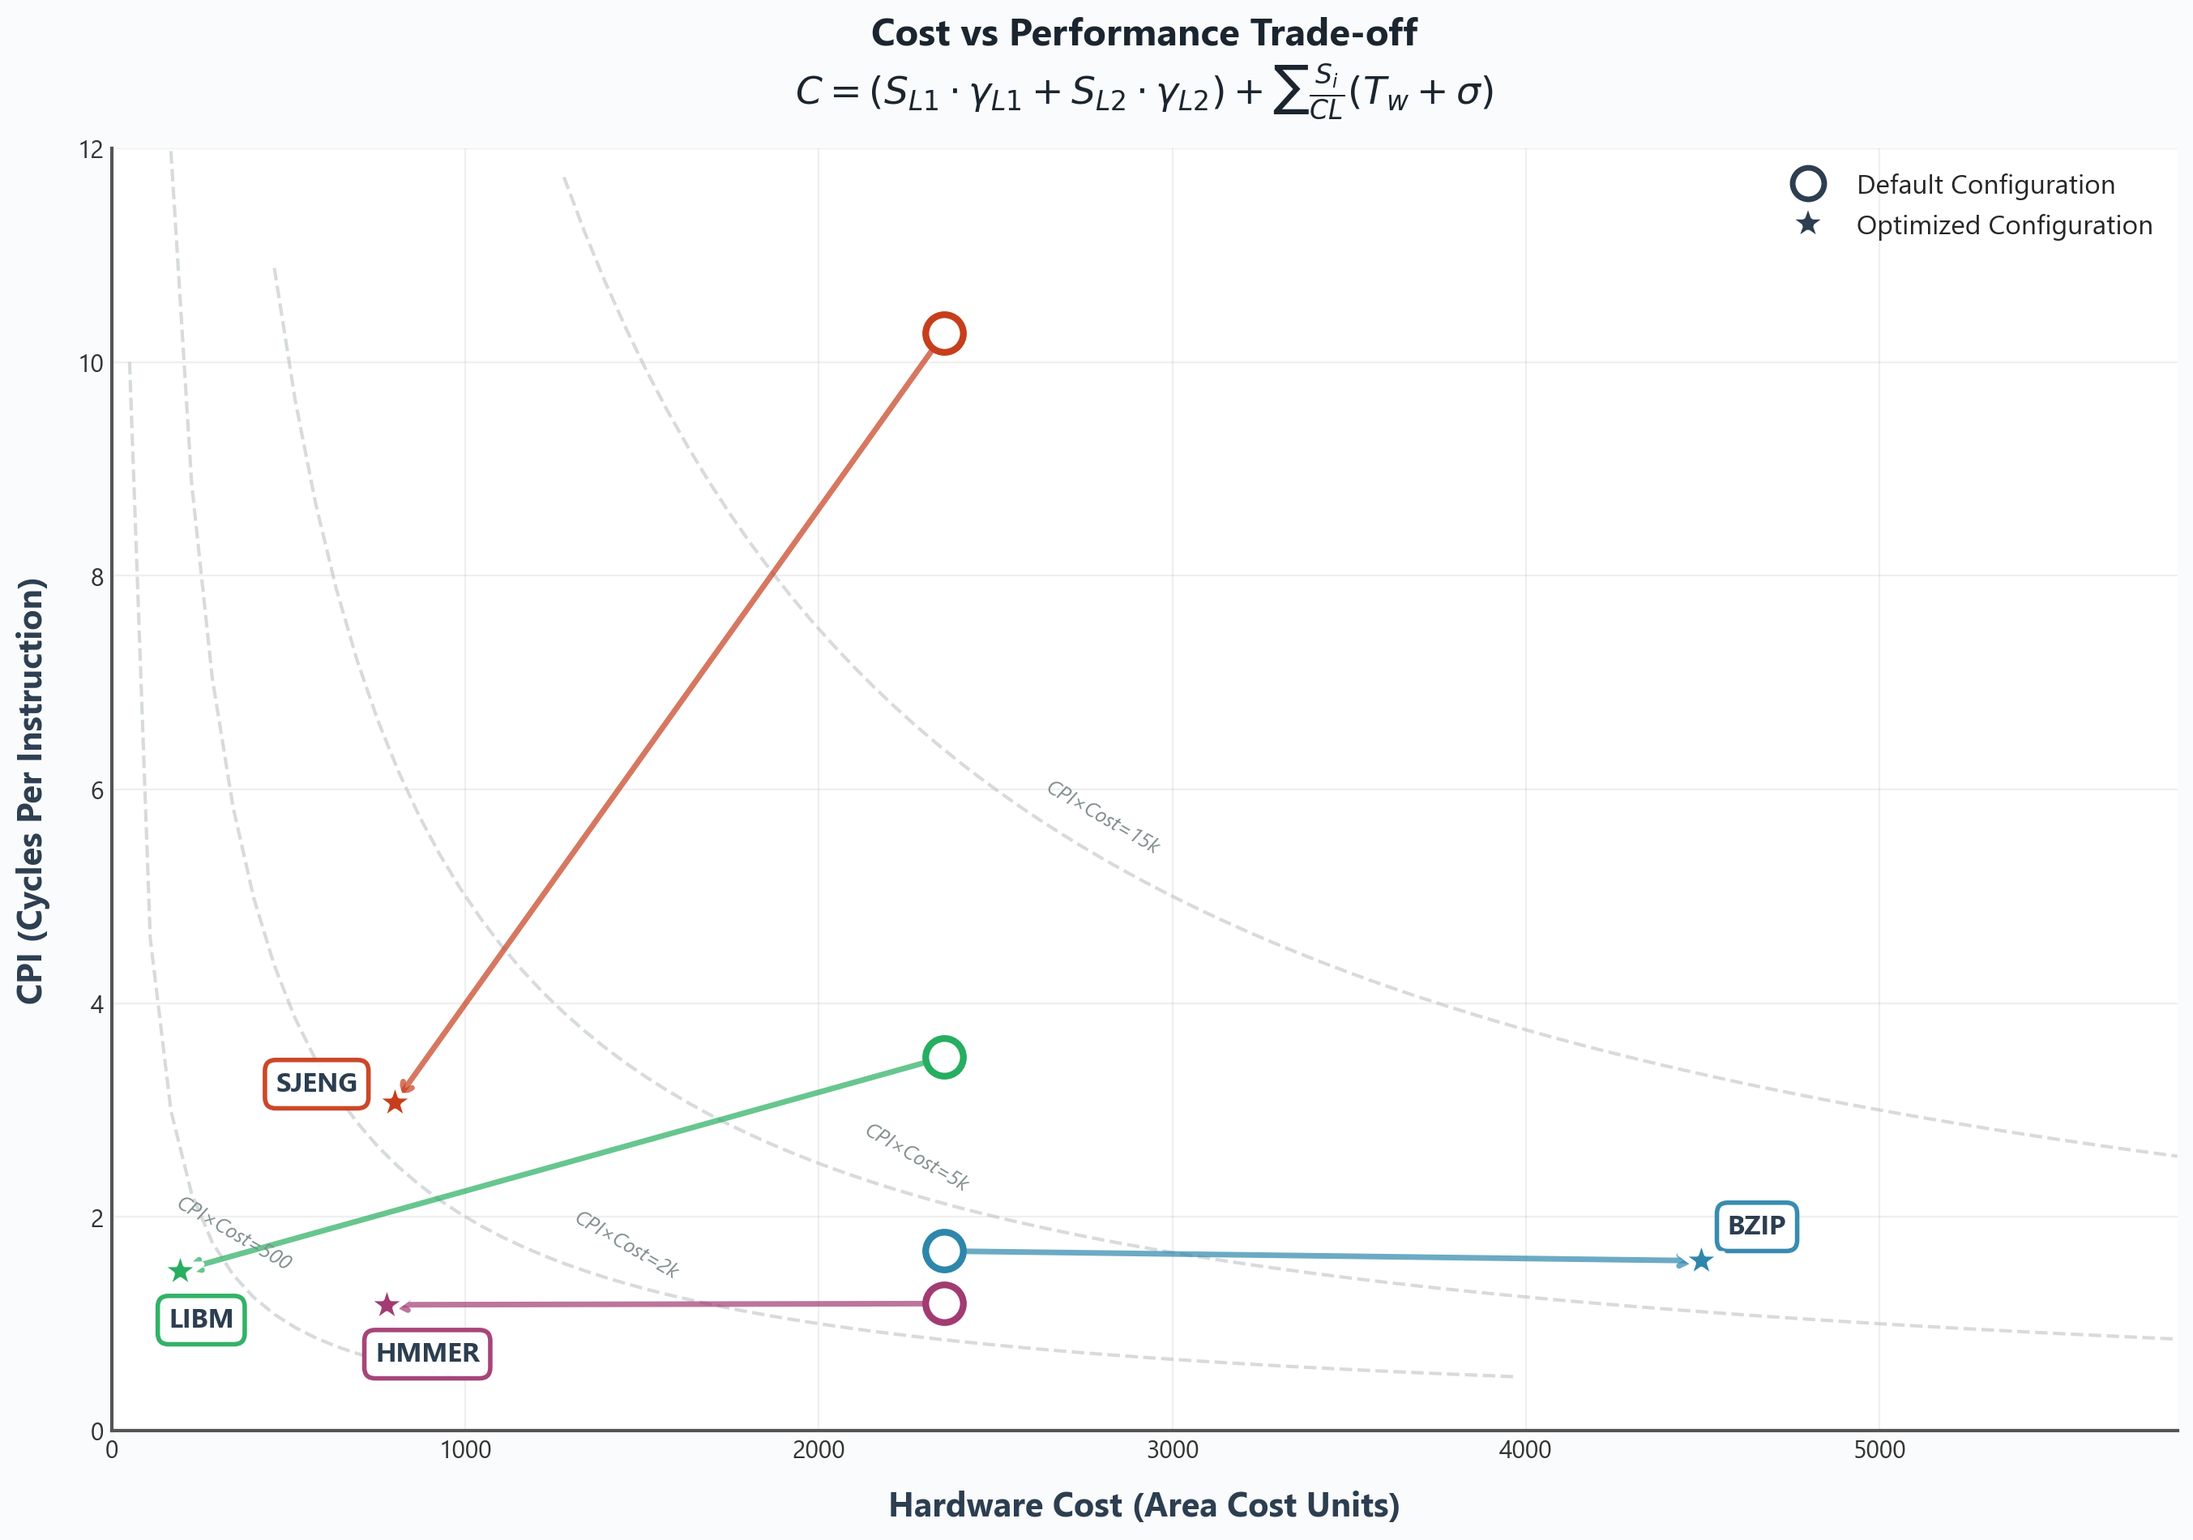
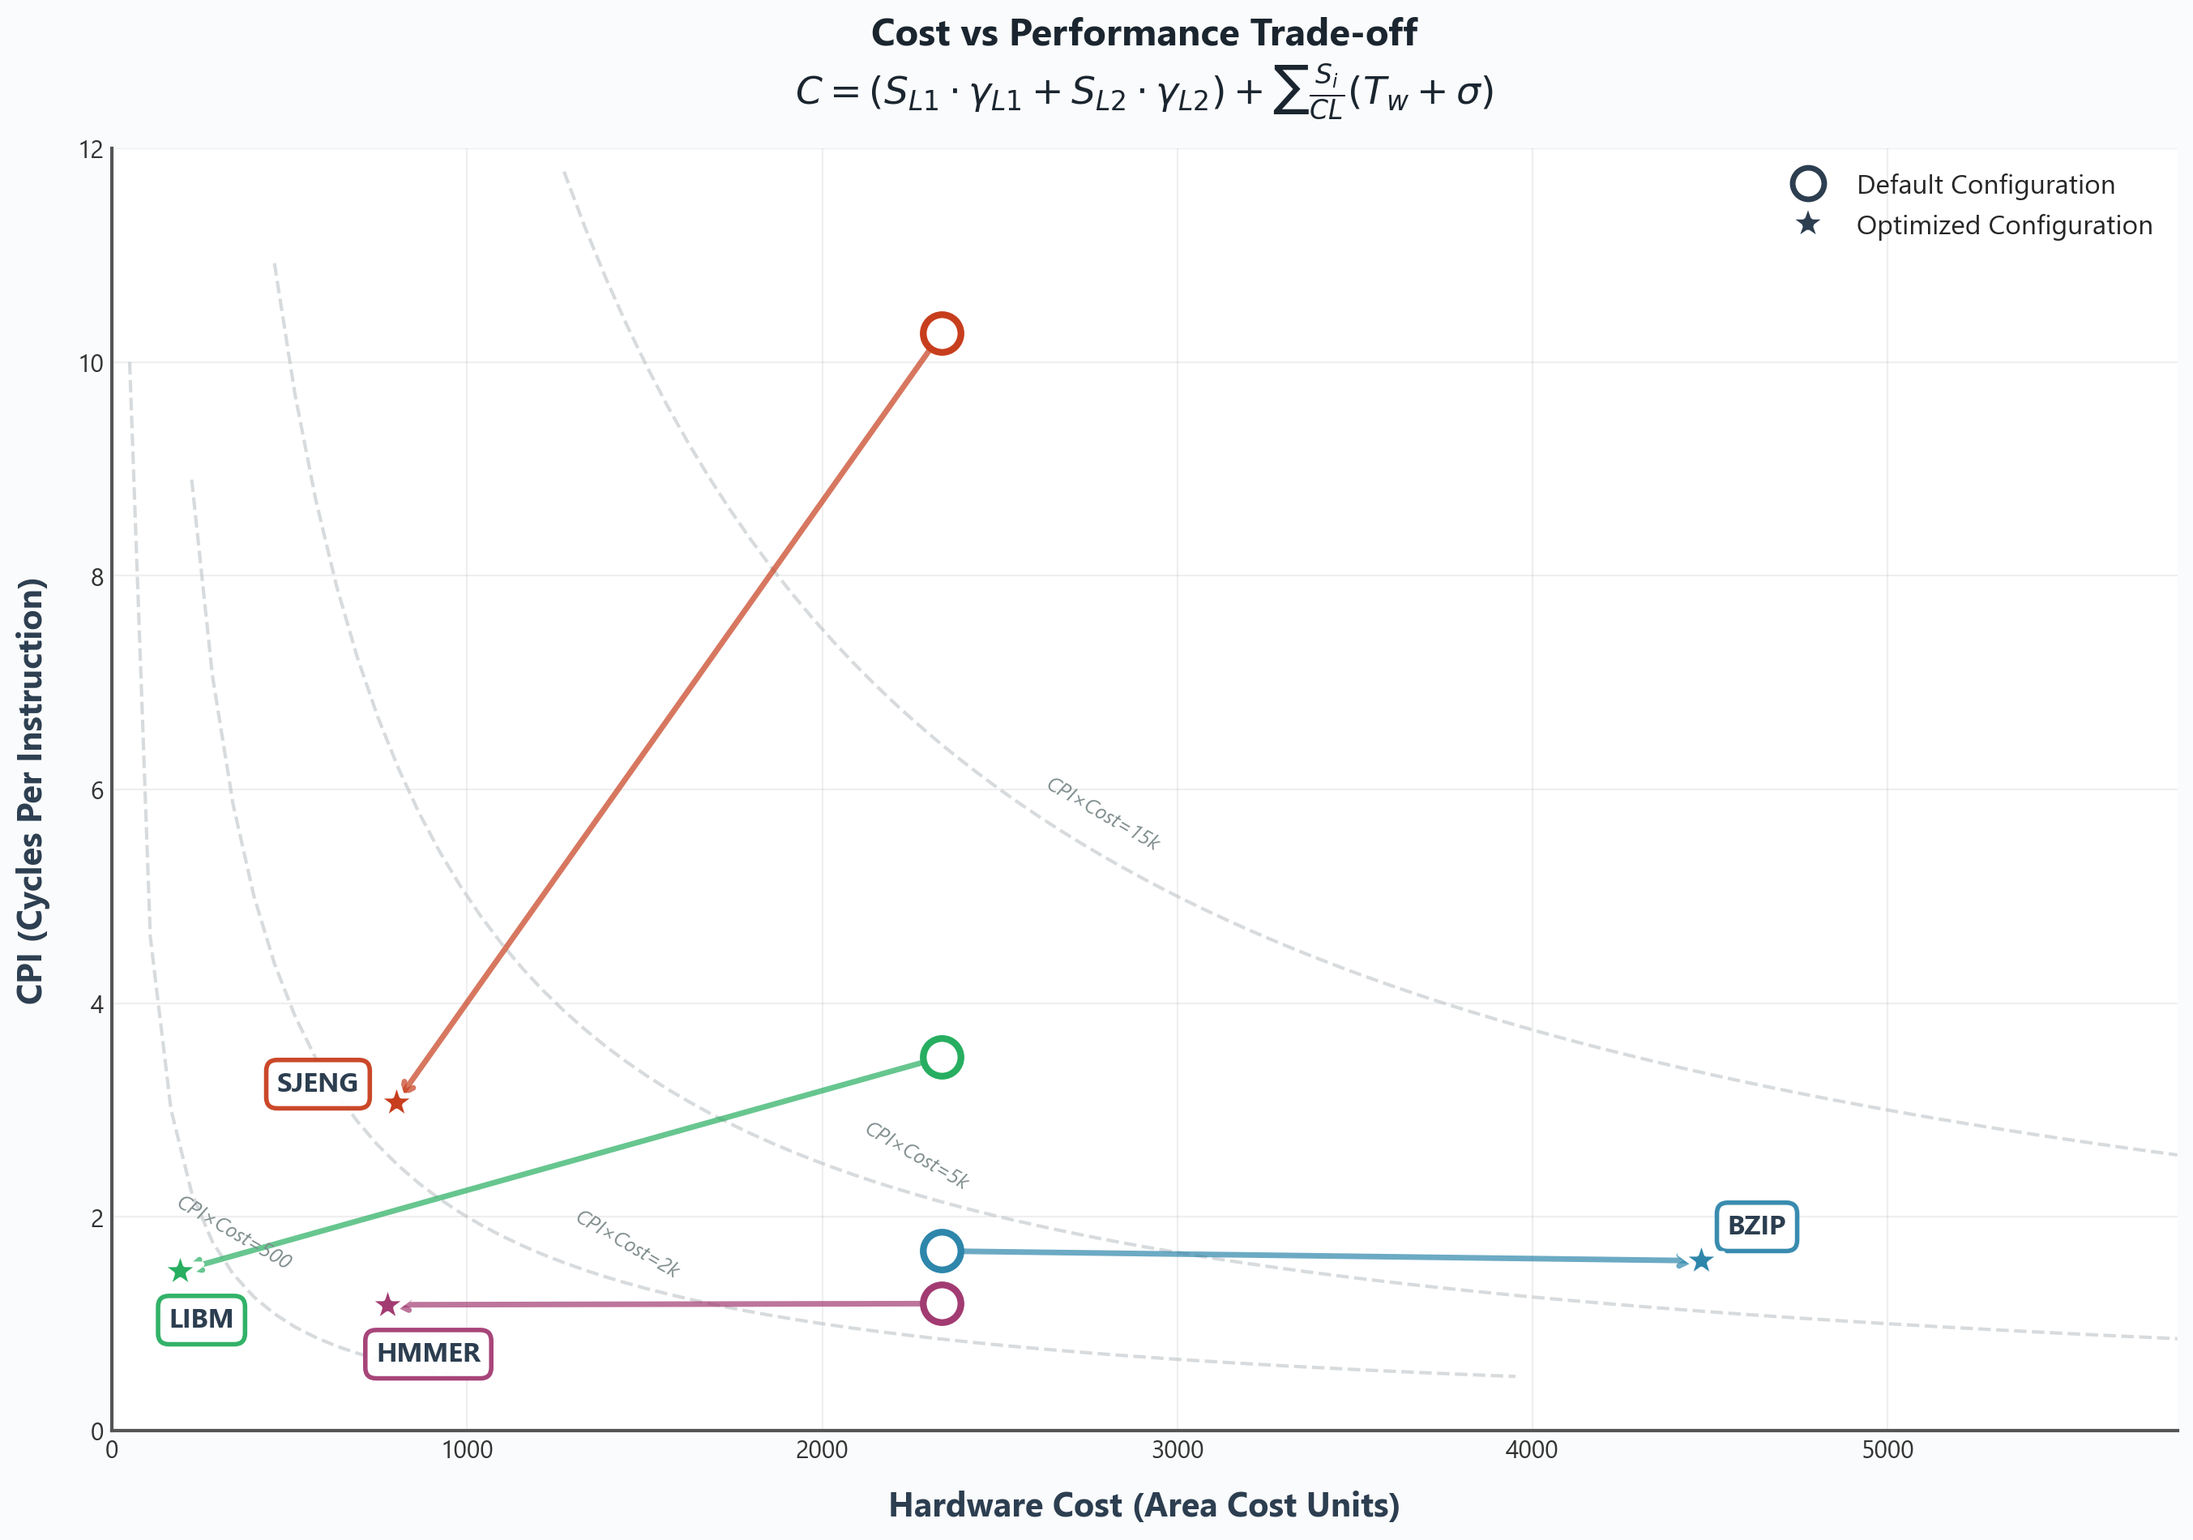
docs: improve "Part 3" of README report

diff --git a/bonus-assigment/scripts/plot_3.py b/bonus-assigment/scripts/plot_3.py
@@ -75,17 +75,18 @@ OUTPUT_DIR.mkdir(parents=True, exist_ok=True)
 # =============================================================================
 # C_total = C_data + C_tag + C_logic
 #
-# C_data = S_L1 × γ_L1 + S_L2 × γ_L2
-# C_tag  = Σ (S_i / CL) × (T_w + σ) × γ_i
+# C_data = S_L1 × γ_L1 + S_L2 × γ_L2           (all sizes in KB)
+# C_tag  = Σ (S_i / CL) × (T_w + σ) / 8 × γ_i  (÷8 converts tag bits → bytes;
+#                                                  ×1024 from KB/B and ÷1024 cancel)
 # C_logic = C_tag × δ × W
 #
-# Combined: C = (S_L1 × γ_L1 + S_L2 × γ_L2) + Σ (S_i/CL × (T_w + σ) × γ_i × (1 + δ × W_i))
+# Combined: C = (S_L1 × γ_L1 + S_L2 × γ_L2) + Σ (S_i/CL × (T_w + σ)/8 × γ_i × (1 + δ × W_i))
 
 COST_PARAMS = {
     'GAMMA_L1': 2.0,          # L1 cell density factor (8T SRAM ~2× larger than 6T)
     'GAMMA_L2': 1.0,          # L2 baseline (6T SRAM)
     'ADDR_WIDTH': 32,         # Address width in bits
-    'DELTA': 0.05,            # Logic overhead per way (~5% per way on tag+logic)
+    'DELTA': 0.02,            # Logic overhead per way (~2% comparator/mux per way)
 }
 
 # =============================================================================
@@ -206,15 +207,19 @@ def calculate_cost(config: Dict) -> float:
     
     Formula: C_total = C_data + C_tag_and_logic
     
-    C_data = S_L1 × γ_L1 + S_L2 × γ_L2
-    C_tag_and_logic = Σ (S_i / CL) × (T_w + σ) × γ_i × (1 + δ × W_i)
+    C_data = S_L1 × γ_L1 + S_L2 × γ_L2              (sizes in KB)
+    C_tag_and_logic = Σ (S_i/CL) × (T_w + σ)/8 × γ_i × (1 + δ × W_i)
+    
+    Note: S_i is in KB and CL in bytes, so S_i/CL carries an implicit ×1024.
+    The bits→KB conversion needs ÷(8×1024), but the ×1024 and ÷1024 cancel,
+    leaving only ÷8 (bits→bytes).
     
     Where:
     - γ_L1 = 2.0: L1 cell density factor (8T SRAM ~2× larger than 6T)
     - γ_L2 = 1.0: L2 baseline (6T SRAM)
     - T_w: Tag width in bits
     - σ: Status bits (valid + dirty + LRU)
-    - δ = 0.05: Logic overhead per way
+    - δ = 0.02: Logic overhead per way (~2% comparator/mux per way)
     """
     p = COST_PARAMS
     
@@ -228,27 +233,20 @@ def calculate_cost(config: Dict) -> float:
     # Data Array Cost: C_data = S_L1 × γ_L1 + S_L2 × γ_L2
     c_data = (l1_total_kb * p['GAMMA_L1']) + (l2_kb * p['GAMMA_L2'])
     
-    # Tag & Logic Overhead for L1i
+    # Tag & Logic Overhead for L1i: (S_KB / CL) × (T_w + σ) / 8 × γ × (1 + δ × W)
     l1i_tag_w = calculate_tag_width(l1i_kb, cl, config['L1i_assoc'])
     l1i_status = calculate_status_bits(config['L1i_assoc'])
-    l1i_num_lines = (l1i_kb * 1024) / cl
-    l1i_overhead = l1i_num_lines * (l1i_tag_w + l1i_status) * p['GAMMA_L1'] * (1 + p['DELTA'] * config['L1i_assoc'])
-    # Scale down to KB-equivalent units (divide by 8*1024 to convert bits to KB)
-    l1i_overhead = l1i_overhead / (8 * 1024)
+    l1i_overhead = (l1i_kb / cl) * (l1i_tag_w + l1i_status) / 8 * p['GAMMA_L1'] * (1 + p['DELTA'] * config['L1i_assoc'])
     
-    # Tag & Logic Overhead for L1d
+    # Tag & Logic Overhead for L1d: (S_KB / CL) × (T_w + σ) / 8 × γ × (1 + δ × W)
     l1d_tag_w = calculate_tag_width(l1d_kb, cl, config['L1d_assoc'])
     l1d_status = calculate_status_bits(config['L1d_assoc'])
-    l1d_num_lines = (l1d_kb * 1024) / cl
-    l1d_overhead = l1d_num_lines * (l1d_tag_w + l1d_status) * p['GAMMA_L1'] * (1 + p['DELTA'] * config['L1d_assoc'])
-    l1d_overhead = l1d_overhead / (8 * 1024)
+    l1d_overhead = (l1d_kb / cl) * (l1d_tag_w + l1d_status) / 8 * p['GAMMA_L1'] * (1 + p['DELTA'] * config['L1d_assoc'])
     
-    # Tag & Logic Overhead for L2
+    # Tag & Logic Overhead for L2: (S_KB / CL) × (T_w + σ) / 8 × γ × (1 + δ × W)
     l2_tag_w = calculate_tag_width(l2_kb, cl, config['L2_assoc'])
     l2_status = calculate_status_bits(config['L2_assoc'])
-    l2_num_lines = (l2_kb * 1024) / cl
-    l2_overhead = l2_num_lines * (l2_tag_w + l2_status) * p['GAMMA_L2'] * (1 + p['DELTA'] * config['L2_assoc'])
-    l2_overhead = l2_overhead / (8 * 1024)
+    l2_overhead = (l2_kb / cl) * (l2_tag_w + l2_status) / 8 * p['GAMMA_L2'] * (1 + p['DELTA'] * config['L2_assoc'])
     
     # Total tag/logic overhead
     c_tag_logic = l1i_overhead + l1d_overhead + l2_overhead
@@ -282,8 +280,7 @@ def calculate_cost_breakdown(config: Dict) -> Dict[str, float]:
                               (l2_kb, config['L2_assoc'], p['GAMMA_L2'])]:
         tw = calculate_tag_width(sz, cl, assoc)
         st = calculate_status_bits(assoc)
-        nlines = (sz * 1024) / cl
-        tag_overhead += nlines * (tw + st) * gamma * (1 + p['DELTA'] * assoc) / (8 * 1024)
+        tag_overhead += (sz / cl) * (tw + st) / 8 * gamma * (1 + p['DELTA'] * assoc)
     
     total = c_data + tag_overhead
     

diff --git a/bonus-assigment/README.md b/bonus-assigment/README.md
@@ -526,12 +526,12 @@ A cache chip consists of three main components, each with distinct cost characte
 │                    CACHE CHIP                       │
 ├─────────────────────────────────────────────────────┤
 │  ┌───────────────────────────────────────────────┐  │
-│  │             DATA ARRAY (90-95%)               │  │ ← Fixed by capacity
+│  │             DATA ARRAY (95%)                  │  │ ← Fixed by capacity
 │  │         Stores actual cache data              │  │    NOT affected by
 │  │         Size = Capacity in bits               │  │    associativity
 │  └───────────────────────────────────────────────┘  │
 │  ┌─────────────────────┐ ┌─────────────────────┐    │
-│  │   TAG ARRAY (3-5%)  │ │  LOGIC (2-5%)       │    │ ← Scales with:
+│  │   TAG ARRAY (4%)    │ │  LOGIC (1%)         │    │ ← Scales with:
 │  │   Stores addresses  │ │  Comparators, MUX   │    │    - Associativity
 │  │   Size ∝ 1/LineSize │ │  Decoders, LRU      │    │    - 1/LineSize
 │  └─────────────────────┘ └─────────────────────┘    │
@@ -577,39 +577,40 @@ Each cache line needs a **tag** to identify which memory address it holds.
 **Tag Calculation:**
 
 For a cache with:
-- Capacity $S$ (in bytes)
-- Line size $CL$ (in bytes)
+- Capacity $S$ (in KB)
+- Line/Block size $CL$ (in bytes)
 - Associativity $W$ (ways)
 - Address width $A_w$ (typically 32 or 48 bits)
 
-Number of lines: $N = \frac{S}{CL}$
+Number of blocks: $N = \frac{S}{CL}$
 
 Number of sets: $Sets = \frac{N}{W} = \frac{S}{CL \times W}$
 
 Tag width: $T_w = A_w - \log_2(CL) - \log_2(Sets)$
 
 **Simplified (for 32-bit address):**
-$$T_w \approx 32 - \log_2(CL) - \log_2\left(\frac{S}{CL \times W}\right)$$
+$$T_w \approx \underbrace{32}_{\text{address bits}} - \underbrace{\log_2(CL)}_{\text{offset bits (byte in block)}} - \underbrace{\log_2(Sets)}_{\text{index bits (which set)}}$$
 
-**Status bits per line:**
+**Status bits per block:**
 $$\sigma = 1 \text{ (valid)} + 1 \text{ (dirty)} + \lceil\log_2(W)\rceil \text{ (LRU)} \approx 2 + \log_2(W)$$
 
-**Tag Array Size:**
+**Tag Array Size (in bits):**
 $$A_{tag} = N \times (T_w + \sigma) = \frac{S}{CL} \times (T_w + \sigma)$$
 
 **Key Insight:** Tag area scales as **1/CL** — larger cachelines mean fewer lines, hence fewer tags!
 
+Since $S_i$ is in **KB** and $CL$ in **bytes**, the ratio $S_i/CL$ implicitly carries a ×1024 factor (KB→bytes). Converting the tag result from bits→KB requires ÷(8×1024), but the ×1024 and ÷1024 cancel, leaving only **÷8** (bits→bytes):
+
 $$
-\boxed{C_{tag} = \sum_{i \in \{L1,L2\}} \frac{S_i}{CL} \times (T_{w,i} + \sigma_i) \times \gamma_i}
+\boxed{C_{tag} = \sum_{i \in \{L1,L2\}} \frac{S_i}{CL} \times \frac{(T_{w,i} + \sigma_i)}{8} \times \gamma_i}
 $$
 
 ##### Step 3: Logic Overhead Cost
 
-Associativity requires additional logic:
-- **N comparators** (one per way)
-- **N:1 MUX** for data selection
-- **Priority encoder** for hit detection
-- **LRU/PLRU tracking** hardware
+Associativity requires additional logic per set:
+- **W comparators** (one per way, each comparing $T_w$ tag bits)
+- **W:1 MUX** for data selection (picks the hitting way's data)
+- **LRU tracking** hardware
 
 This logic scales with:
 1. Number of ways (W)
@@ -622,7 +623,7 @@ $$C_{logic} = C_{tag} \times \delta \times W$$
 Where $\delta \approx 0.02$ (2% per way) based on cache design literature (comparator + MUX overhead per way).
 
 $$
-\boxed{C_{logic} = \sum_{i \in \{L1,L2\}} \frac{S_i}{CL} \times (T_{w,i} + \sigma_i) \times \gamma_i \times \delta \times W_i}
+\boxed{C_{logic} = \sum_{i \in \{L1,L2\}} \frac{S_i}{CL} \times \frac{(T_{w,i} + \sigma_i)}{8} \times \gamma_i \times \delta \times W_i}
 $$
 
 ##### Step 4: Complete Physical Model
@@ -630,7 +631,7 @@ $$
 Combining all components:
 
 $$
-\boxed{C_{total} = \underbrace{(S_{L1} \cdot \gamma_{L1}) + (S_{L2} \cdot \gamma_{L2})}_{\text{Data Array Cost}} + \underbrace{\sum_{i=L1,L2} \left( \frac{S_{i}}{CL} \cdot (T_{w,i} + \sigma_i) \cdot \gamma_{i} \cdot (1 + \delta \cdot W_i) \right)}_{\text{Tag and Logic Overhead}}}
+\boxed{C_{total} = \underbrace{(S_{L1} \cdot \gamma_{L1}) + (S_{L2} \cdot \gamma_{L2})}_{\text{Data Array Cost (KB)}} + \underbrace{\sum_{i=L1,L2} \left( \frac{S_{i}}{CL} \cdot \frac{(T_{w,i} + \sigma_i)}{8} \cdot \gamma_{i} \cdot (1 + \delta \cdot W_i) \right)}_{\text{Tag and Logic Overhead (KB)}}}
 $$
 
 **Parameter Values:**
@@ -650,7 +651,7 @@ $$
 For optimization loops where the full bit-level calculation is cumbersome, we derive a **calibrated approximation**:
 
 $$
-\boxed{C_{approx} = 2.0 \cdot S_{L1} + 1.0 \cdot S_{L2} + S_{total} \times \frac{A_w}{CL \times 8} \times (1 + 0.05 \cdot \overline{W})}
+\boxed{C_{approx} = 2.0 \cdot S_{L1} + 1.0 \cdot S_{L2} + S_{total} \times \frac{A_w}{CL \times 8} \times (1 + 0.02 \cdot \overline{W})}
 $$
 
 **Where:**
@@ -658,15 +659,6 @@ $$
 - $CL$ = Cacheline size in bytes
 - $A_w$ = Address width in bits (32 for this system)
 - $\overline{W}$ = Average associativity across caches
-
-**Component Breakdown:**
-
-| Component | Simplified Term | Physical Meaning |
-|-----------|-----------------|------------------|
-| $2.0 \cdot S_{L1}$ | L1 Data Array | 8T cells are 2× larger |
-| $1.0 \cdot S_{L2}$ | L2 Data Array | 6T baseline |
-| $\frac{A_w}{CL \times 8}$ | Tag Overhead | Larger lines → fewer tags |
-| $(1 + 0.05 \cdot W)$ | Logic Overhead | ~5% per way on overhead only |
 
 ---
 
@@ -677,7 +669,7 @@ $$
 | L1 vs L2 cell area | Intel Skylake Die Analysis (WikiChip) | 8T: ~0.082 μm², 6T: ~0.050 μm² → **1.64×** |
 | SRAM cell scaling | ISSCC Papers (2015-2020) | 8T cells ~1.5-2× larger than 6T |
 | Tag overhead | H&P 6th Ed., Chapter 2 | Tag bits = Addr - log(Line) - log(Sets) |
-| Associativity logic | Computer Architecture textbooks | N comparators + N:1 MUX per set |
+| Associativity logic | Computer Architecture textbooks | W comparators + W:1 MUX per set |
 
 ---
 
@@ -689,15 +681,15 @@ Using the physical model: $C = 2 \cdot S_{L1} + S_{L2} + \text{TagOverhead}$
 
 | Benchmark | Configuration | Data Cost | Tag Overhead | **Total Cost** | **CPI** | **CPI × Cost** |
 |-----------|---------------|-----------|--------------|----------------|---------|----------------|
-| **spechmmer** | Default (96KB L1, 2MB L2, 64B, 4-way) | 2,240 | 115 | 2,355 | 1.188 | 2,798 |
-| | Optimized (128KB L1, 512KB, 256B, 2-way) | 768 | 8 | 776 | **1.177** | **914** |
-| **specmcf** | Default (96KB L1, 2MB L2, 64B, 4-way) | 2,240 | 115 | 2,355 | 1.294 | 3,047 |
-| | Optimized (96KB L1, 2MB, 512B, 4-way) | 2,240 | 14 | 2,254 | **1.105** | **2,491** |
-| **specbzip** | Default (96KB L1, 2MB L2, 64B, 4-way) | 2,240 | 115 | 2,355 | 1.680 | 3,956 |
-| | Optimized (160KB L1, 4MB, 256B, 16-way) | 4,416 | 78 | 4,494 | **1.589** | **7,141** |
-| **speclibm** | Default (96KB L1, 2MB L2, 64B, 4-way) | 2,240 | 115 | 2,355 | 3.494 | 8,228 |
+| **spechmmer** | Default (96KB L1, 2MB L2, 64B, 4-way) | 2,240 | 96 | 2,336 | 1.188 | 2,775 |
+| | Optimized (128KB L1, 512KB, 256B, 2-way) | 768 | 8 | 776 | **1.177** | **913** |
+| **specmcf** | Default (96KB L1, 2MB L2, 64B, 4-way) | 2,240 | 96 | 2,336 | 1.294 | 3,023 |
+| | Optimized (96KB L1, 2MB, 512B, 4-way) | 2,240 | 12 | 2,252 | **1.105** | **2,488** |
+| **specbzip** | Default (96KB L1, 2MB L2, 64B, 4-way) | 2,240 | 96 | 2,336 | 1.680 | 3,925 |
+| | Optimized (160KB L1, 4MB, 256B, 16-way) | 4,416 | 58 | 4,474 | **1.589** | **7,109** |
+| **speclibm** | Default (96KB L1, 2MB L2, 64B, 4-way) | 2,240 | 96 | 2,336 | 3.494 | 8,162 |
 | | Optimized (**32KB L1, 128KB L2**, 2048B, 1-way) | **192** | **0.2** | **192** | **1.496** | **288** |
-| **specsjeng** | Default (96KB L1, 2MB L2, 64B, 4-way) | 2,240 | 115 | 2,355 | 10.271 | 24,188 |
+| **specsjeng** | Default (96KB L1, 2MB L2, 64B, 4-way) | 2,240 | 96 | 2,336 | 10.271 | 23,994 |
 | | Optimized (144KB L1, 512KB L2, 2048B, 4-way) | 800 | 1 | 801 | **3.072** | **2,461** |
 
 ---
@@ -731,8 +723,8 @@ Our cost-performance analysis consistently points to **extreme cacheline sizes (
 
 The speclibm configuration (32KB L1, 128KB L2, 2048B line) achieves:
 - **CPI = 1.496** (57% better than baseline)
-- **Cost = 195 units** (94% cheaper than baseline)
-- **CPI × Cost = 292** (the lowest value seen in all experiments)
+- **Cost = 192 units** (92% cheaper than baseline)
+- **CPI × Cost = 288** (the lowest value seen in all experiments)
 
 #### The Physical Reality: Why 2048B Lines Are Unimplementable
 
